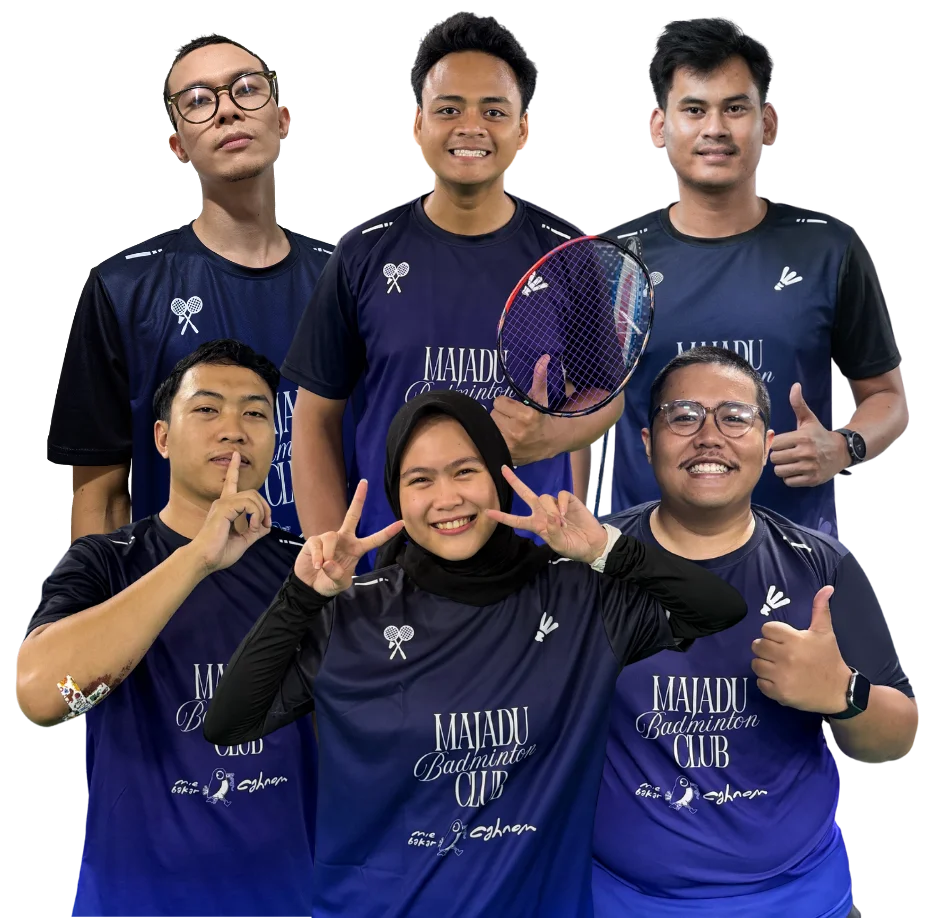
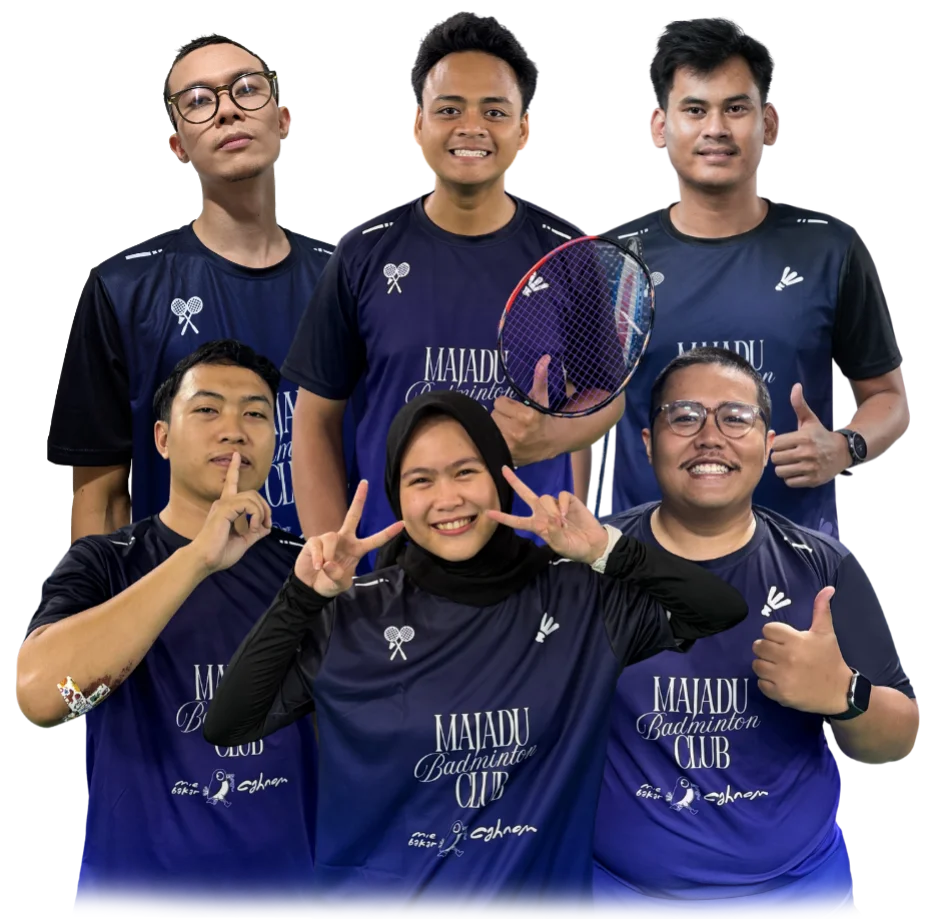
Feat/match result post polish (#27)
* feat(tournament): sponsor logo + team photo polish on match result post

- Add sponsor logo (bottom center, stepped downscale for sharpness)
- Update Blue Waves team photo with transparent PNG → WebP
- Shift score section up (SCORE_TOP 810→780) to give sponsor space
- Move team photos up 30px
- Scale team photos by fixed height (500px) with half-canvas clipping

* fix(tournament): separate team sponsor logo from classic tournament sponsor

- Add team-sponsor-logo.png (Kinesia + Regen) for team tournament posts
- Restore original sponsor-logo.png for classic tournament (unchanged)
- Update TeamTournamentPage and MatchResultPreview to use team-sponsor-logo.png

---------

diff --git a/apps/web/src/utils/canvasPost.ts b/apps/web/src/utils/canvasPost.ts
@@ -1023,7 +1023,7 @@ export interface DrawTeamMatchPostOptions {
 export function drawTeamMatchPost(options: DrawTeamMatchPostOptions) {
   const {
     canvas, teamAName, teamBName, teamAWins, teamBWins, partaiRows, subtitle,
-    summaryBg, logo, cardLogo, teamALogo, teamBLogo,
+    summaryBg, logo, sponsor, cardLogo, teamALogo, teamBLogo,
     teamAPhoto, teamBPhoto, teamAColor, teamBColor,
   } = options
   const W = POST_WIDTH
@@ -1083,7 +1083,7 @@ export function drawTeamMatchPost(options: DrawTeamMatchPostOptions) {
     const pH = img.naturalHeight * scale
     const cx = side === 'left' ? W * 0.26 : W * 0.74
     const px = cx - pW / 2
-    const py = PHOTO_BOTTOM - pH
+    const py = PHOTO_BOTTOM - pH - 30
 
     // Clip to this side's half so wide photos don't bleed across the center
     const clipX = side === 'left' ? 0 : W / 2
@@ -1141,7 +1141,7 @@ export function drawTeamMatchPost(options: DrawTeamMatchPostOptions) {
   ctx.restore()
 
   // 9. Score section — team logos + score + names (overlaps into photo area)
-  const SCORE_TOP = 810
+  const SCORE_TOP = 780
   const TEAM_LOGO_H = 175
   const NAME_FONT = 22
 
@@ -1204,7 +1204,7 @@ export function drawTeamMatchPost(options: DrawTeamMatchPostOptions) {
   ctx.restore()
 
   // 11. Partai rows
-  const partaiStartY = divY + 55
+  const partaiStartY = divY + 45
   const maxPartaiNameW = 220
 
   partaiRows.forEach((row, i) => {
@@ -1243,6 +1243,34 @@ export function drawTeamMatchPost(options: DrawTeamMatchPostOptions) {
   })
 
 
-  // 13. Header — drawn last so it sits above photos
+  // 13. Sponsor logo — bottom center, small (stepped downscale for quality)
+  if (sponsor) {
+    const sH = 44
+    const sW = Math.round(sH * (sponsor.naturalWidth / sponsor.naturalHeight))
+    // Step down in halves until close to target to preserve sharpness
+    let src: CanvasImageSource = sponsor
+    let srcW = sponsor.naturalWidth
+    let srcH = sponsor.naturalHeight
+    while (srcW / 2 > sW * 1.5) {
+      const mid = document.createElement('canvas')
+      mid.width = Math.round(srcW / 2)
+      mid.height = Math.round(srcH / 2)
+      const mctx = mid.getContext('2d')!
+      mctx.imageSmoothingEnabled = true
+      mctx.imageSmoothingQuality = 'high'
+      mctx.drawImage(src, 0, 0, mid.width, mid.height)
+      src = mid
+      srcW = mid.width
+      srcH = mid.height
+    }
+    ctx.save()
+    ctx.imageSmoothingEnabled = true
+    ctx.imageSmoothingQuality = 'high'
+    ctx.globalAlpha = 0.85
+    ctx.drawImage(src, (W - sW) / 2, H - sH - 24, sW, sH)
+    ctx.restore()
+  }
+
+  // 14. Header — drawn last so it sits above photos
   drawAnniversaryHeader(ctx, W, logo, cardLogo)
 }

diff --git a/apps/web/src/pages/MatchResultPreview.tsx b/apps/web/src/pages/MatchResultPreview.tsx
@@ -26,10 +26,11 @@ function MatchCanvas({ teamA, teamB, winsA, winsB }: { teamA: string; teamB: str
         if (path) return loadImage(path).catch(() => loadImage('/team-photo-placeholder.png').catch(() => undefined))
         return loadImage('/team-photo-placeholder.png').catch(() => undefined)
       }
-      const [summaryBg, logo, cardLogo, teamALogo, teamBLogo, teamAPhoto, teamBPhoto] = await Promise.all([
+      const [summaryBg, logo, cardLogo, sponsor, teamALogo, teamBLogo, teamAPhoto, teamBPhoto] = await Promise.all([
         loadImage('/court-bg.png').catch(() => undefined),
         loadImage('/majadu-logo.png').catch(() => undefined),
         loadImage('/anniversary-card-logo.png').catch(() => undefined),
+        loadImage('/team-sponsor-logo.png').catch(() => undefined),
         teamLogoPath(teamA) ? loadImage(teamLogoPath(teamA)!).catch(() => undefined) : Promise.resolve(undefined),
         teamLogoPath(teamB) ? loadImage(teamLogoPath(teamB)!).catch(() => undefined) : Promise.resolve(undefined),
         loadTeamPhoto(teamA),
@@ -46,6 +47,7 @@ function MatchCanvas({ teamA, teamB, winsA, winsB }: { teamA: string; teamB: str
         summaryBg,
         logo,
         cardLogo,
+        sponsor,
         teamALogo,
         teamBLogo,
         teamAPhoto,

diff --git a/apps/web/src/pages/TeamTournamentPage.tsx b/apps/web/src/pages/TeamTournamentPage.tsx
@@ -60,7 +60,7 @@ export default function TeamTournamentPage() {
       logo: '/majadu-logo.png',
       badge: '/tournament-badge.png',
       chevrons: '/chevrons.png',
-      sponsor: '/sponsor-logo.png',
+      sponsor: '/team-sponsor-logo.png',
       summaryBg: '/summary-bg.jpg',
       cardLogo: '/anniversary-card-logo.png',
     }).then(setOverlays)
